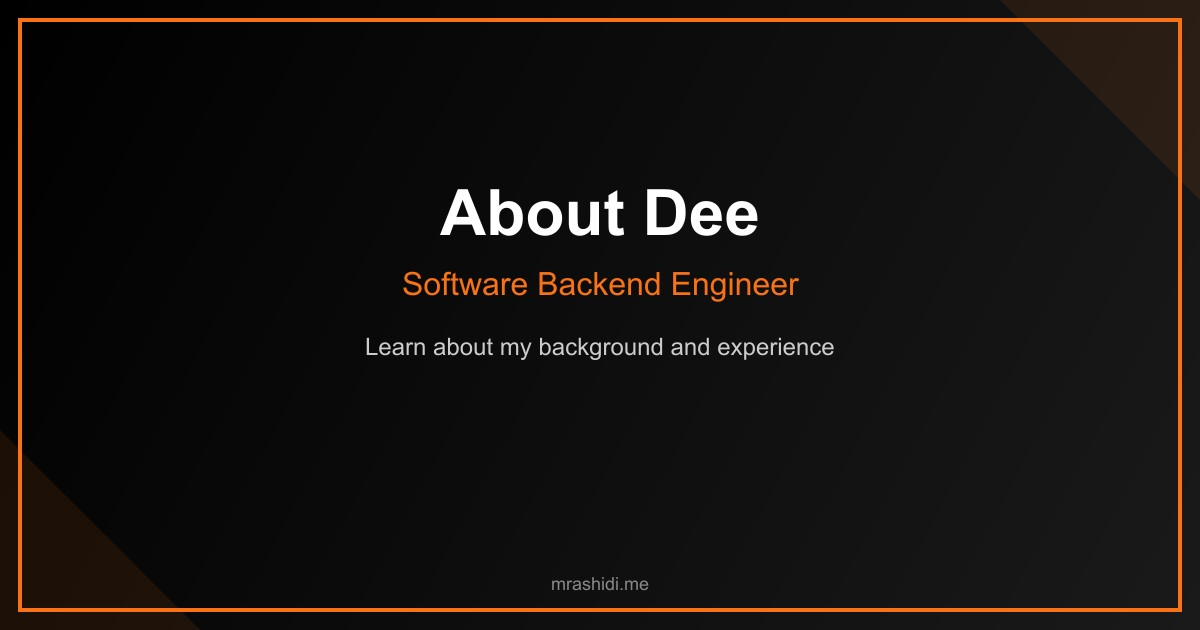
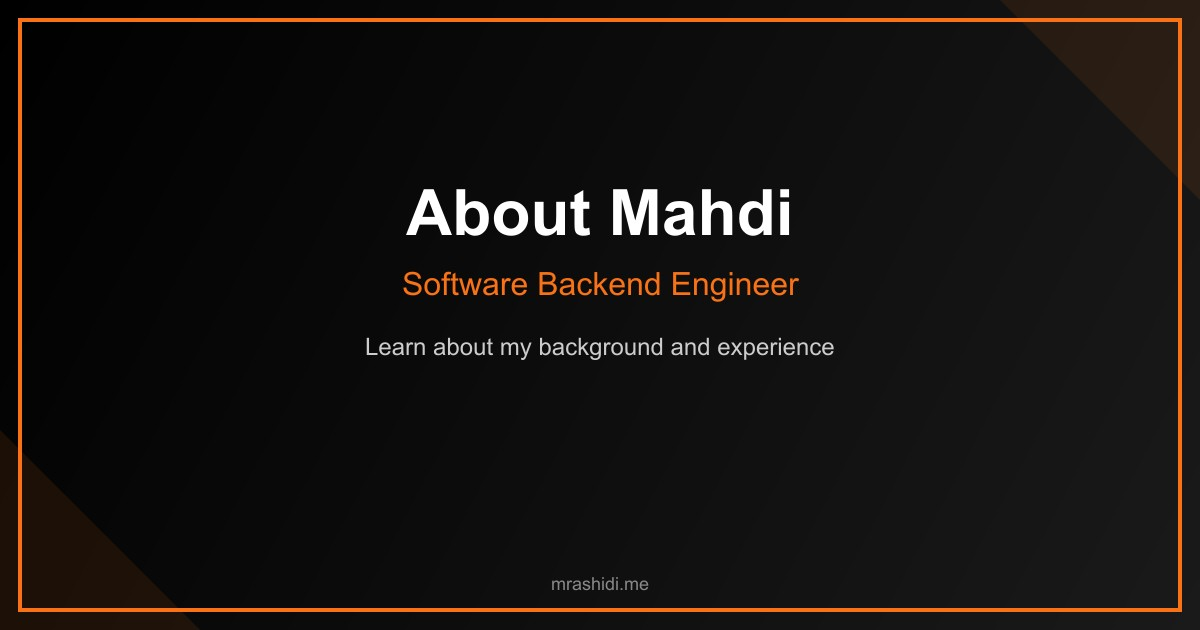
chore: update personal references

Changed region(s): [[0.3392, 0.3016, 0.6783, 0.3921]]

diff --git a/src/lib/services/email/templates.ts b/src/lib/services/email/templates.ts
@@ -92,7 +92,7 @@ function createContactUserTemplate(data: EmailTemplateData, templateConfig: ITem
     <div style="text-align: center;">
       <a href="${templateConfig.companyWebsite}" class="button">Visit My Portfolio</a>
     </div>
-    <p>Best regards,<br>Dee Rashidi</p>
+    <p>Best regards,<br>Mahdi Rashidi</p>
   `;
 
   const html = createBaseTemplate("Message Received", content, templateConfig);
@@ -107,7 +107,7 @@ I personally review every message and will get back to you as soon as possible, 
 Visit my portfolio: ${templateConfig.companyWebsite}
 
 Best regards,
-Dee Rashidi
+Mahdi Rashidi
 
 ---
 GitHub: ${templateConfig.socialLinks.github}
@@ -151,7 +151,7 @@ function createResumeUserTemplate(data: EmailTemplateData, templateConfig: ITemp
       <a href="${templateConfig.companyWebsite}" class="button">Visit My Portfolio</a>
     </div>
     <p>If you'd like to get in touch or have any questions, feel free to reach out through the contact form on my website.</p>
-    <p>Best regards,<br>Dee Rashidi</p>
+    <p>Best regards,<br>Mahdi Rashidi</p>
   `;
 
   const html = createBaseTemplate("Resume Request Confirmation", content, templateConfig);
@@ -168,7 +168,7 @@ Visit my portfolio: ${templateConfig.companyWebsite}
 If you'd like to get in touch or have any questions, feel free to reach out through the contact form on my website.
 
 Best regards,
-Dee Rashidi
+Mahdi Rashidi
 
 ---
 GitHub: ${templateConfig.socialLinks.github}

diff --git a/src/data/config.ts b/src/data/config.ts
@@ -37,7 +37,7 @@ export interface SiteConfig {
 
 const config: SiteConfig = {
   person: {
-    name: "Dee Rashidi",
+    name: "Mahdi Rashidi",
     title: "Software Engineer",
     location: "Berlin, Germany",
     email: "contact@mrashidi.me",
@@ -53,7 +53,7 @@ const config: SiteConfig = {
   site: {
     url: "https://mrashidi.me",
     name: "MR Portfolio",
-    title: "Dee Rashidi | Software Backend Engineer",
+    title: "Mahdi Rashidi | Software Backend Engineer",
     description:
       "Software engineer with 9 years of experience in backend development. I work primarily with Node.js and TypeScript, with additional experience across frameworks and languages. I focus on building reliable, maintainable systems that scale with business needs.",
     keywords:

diff --git a/scripts/generate-placeholder-og.js b/scripts/generate-placeholder-og.js
@@ -32,13 +32,13 @@ if (!fs.existsSync(publicDir)) {
 const images = [
   {
     name: "og-image.jpg",
-    title: "Dee Rashidi",
+    title: "Mahdi Rashidi",
     subtitle: "Software Backend Engineer",
     description: "Building reliable and maintainable systems",
   },
   {
     name: "og-about.jpg",
-    title: "About Dee",
+    title: "About Mahdi",
     subtitle: "Software Backend Engineer",
     description: "Learn about my background and experience",
   },
@@ -68,7 +68,7 @@ const images = [
   },
   {
     name: "twitter-image.jpg",
-    title: "Dee Rashidi",
+    title: "Mahdi Rashidi",
     subtitle: "Software Backend Engineer",
     description: "Backend Development • Node.js • TypeScript",
   },

diff --git a/src/components/terminal/commandHandlers.tsx b/src/components/terminal/commandHandlers.tsx
@@ -285,7 +285,7 @@ const commandHandlers = {
       <p className="text-gray-500 text-sm mt-2">Built with Next.js, TypeScript, and Tailwind CSS</p>
       <p className="text-gray-500 text-sm">Features: Interactive terminal, GitHub integration, blog posts</p>
       <p className="text-gray-500 text-xs mt-2">Feel free to explore, contribute, or use as inspiration!</p>
-      <p className="text-gray-500 text-xs">— Dee Rashidi</p>
+      <p className="text-gray-500 text-xs">— Mahdi Rashidi</p>
     </div>
   ),
 

diff --git a/src/features/resume/ResumeRequestModal.tsx b/src/features/resume/ResumeRequestModal.tsx
@@ -49,7 +49,7 @@ export function ResumeRequestModalRefactored({ isOpen, onClose, onSubmit }: Resu
     try {
       const downloadLink = document.createElement("a");
       downloadLink.href = "/api/cv/download";
-      downloadLink.download = "Dee_Rashidi_CV.pdf";
+      downloadLink.download = "Mahdi_Rashidi_CV.pdf";
       document.body.appendChild(downloadLink);
       downloadLink.click();
       document.body.removeChild(downloadLink);

diff --git a/src/components/layout/BrandLogo.tsx b/src/components/layout/BrandLogo.tsx
@@ -8,7 +8,7 @@ export const BrandLogo = () => {
   const { getSectionTitle, getColor } = useThemeConfig();
 
   return (
-    <Link href="/" className="flex items-center shrink-0 group" aria-label="Dee Rashidi - Home">
+    <Link href="/" className="flex items-center shrink-0 group" aria-label="Mahdi Rashidi - Home">
       <motion.div
         className="relative"
         initial={{ opacity: 0, y: -20 }}

diff --git a/src/features/about/BioSection.tsx b/src/features/about/BioSection.tsx
@@ -9,7 +9,7 @@ export function BioSection() {
   return (
     <AnimatedSection delay={0.2}>
       <div className="relative">
-        <ProfileImage src="/profile.jpeg" alt="Dee Rashidi" />
+        <ProfileImage src="/profile.jpeg" alt="Mahdi Rashidi" />
         <p className={`text-lg leading-relaxed ${getTextColor("secondary")} font-albert text-justify`}>
           {personalInfo.bio}
         </p>

diff --git a/src/server/blob.service.ts b/src/server/blob.service.ts
@@ -1,7 +1,7 @@
 import { put } from "@vercel/blob";
 import { logger } from "@/lib/core";
 
-const CV_PATH = "cv/Dee_Rashidi_CV.pdf";
+const CV_PATH = "cv/Mahdi_Rashidi_CV.pdf";
 
 export function getCVUrl(): string {
   const blobStoreUrl = process.env.BLOB_STORE_URL;

diff --git a/src/server/blog.service.ts b/src/server/blog.service.ts
@@ -6,7 +6,7 @@ import { cacheService } from "./cache.service";
 const authors: IBlogAuthor[] = [
   {
     username: "mrdevx",
-    name: "Dee Rashidi",
+    name: "Mahdi Rashidi",
     mediumUrl: "https://mrdevx.medium.com",
   },
 ];

diff --git a/src/config/app.config.ts b/src/config/app.config.ts
@@ -1,7 +1,7 @@
 export const APP_CONFIG = {
   name: "MR Portfolio",
   version: "0.1.22",
-  description: "Dee Rashidi's Personal Portfolio",
+  description: "Mahdi Rashidi's Personal Portfolio",
 
   animations: {
     fast: 0.2,

diff --git a/src/lib/core/constants.ts b/src/lib/core/constants.ts
@@ -26,7 +26,7 @@ export const API_CONFIG = {
 export const BLOG_AUTHORS = [
   {
     username: "mrdevx",
-    name: "Dee Rashidi",
+    name: "Mahdi Rashidi",
     mediumUrl: "https://mrdevx.medium.com",
   },
 ] as const;

diff --git a/README.md b/README.md
@@ -232,7 +232,7 @@ Deployed on Vercel with:
 
 ## 📄 License
 
-Copyright (c) 2025 Dee Rashidi. All rights reserved.
+Copyright (c) 2025 Mahdi Rashidi. All rights reserved.
 
 This source code is provided for educational and demonstration purposes only.
 
